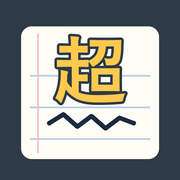
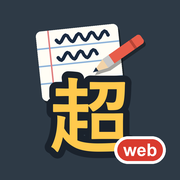
v7: Android 版 v20〜v23 に合わせる（自動空白、字の大きさ、送るのボタンと縦横の 1 行、web の札のアイコン）

diff --git a/js/ink.js b/js/ink.js
@@ -7,6 +7,19 @@ import { localPos } from './ui.js';
 import { layout, drawItem, glyph, space, newline, span, figScale, canvasPen, GLYPH, NEWLINE, FIGURE, inkWidth } from './note.js';
 
 export const COMMIT_DELAY_MS = 700;
+/** 自動空白（v7 から、Android 版 v20・v21 と同じ）: 指を離してこれだけ書かなければ空白を 1 つ入れる */
+export const AUTO_SPACE_MS = 2300;
+const LINEW = 'inkmemo.lineW'; // 縦の画面・横の画面の 1 行の長さ（行の単位）。送るときに使う
+
+/** 書く画面の 1 行の長さ（行の単位）。まだその向きで開いていなければ、画面の大きさから見積もる */
+export function lineUnits(land) {
+  try {
+    const v = JSON.parse(localStorage.getItem(LINEW) || '{}')[land ? 'land' : 'port'];
+    if (v > 0) return v;
+  } catch (e) { /* 見積もる */ }
+  const a = Math.min(screen.width, screen.height), b = Math.max(screen.width, screen.height);
+  return land ? (b - 28 - 64) / 40 : (a - 28) / 40;
+}
 
 export class InkView {
   constructor(canvas) {
@@ -16,7 +29,8 @@ export class InkView {
     this.lineH = 40; this.marginL = 18; this.marginR = 10; this.marginT = 12;
     this.note = null; this.cursor = 0; this.scrollY = 0;
     this.pending = []; this.cur = null;
-    this.lastTop = -1; this.lastH = -1;
+    this.recentH = []; this.lastBottom = 0;
+    this.autoSpace = false; this.spaceTimer = 0;
     this.undoStack = [];
     this.ptrs = new Map();
     this.scrolling = false; this.penSeen = false;
@@ -42,6 +56,38 @@ export class InkView {
     this.ctx.setTransform(dpr, 0, 0, dpr, 0, 0);
     this.ensureCursorVisible();
     this.draw();
+    // この向きの画面の 1 行の長さを覚える（「送る」で、縦の画面／横の画面の 1 行に合わせるときに使う）
+    try {
+      const o = JSON.parse(localStorage.getItem(LINEW) || '{}');
+      o[r.width < r.height ? 'port' : 'land'] = this.maxW();
+      localStorage.setItem(LINEW, JSON.stringify(o));
+    } catch (e) { /* 覚えられなくても見積もる */ }
+  }
+
+  setAutoSpace(on) {
+    this.autoSpace = on;
+    if (!on) clearTimeout(this.spaceTimer);
+  }
+
+  /** 書くのを止めて字が入ったとき（0.7 秒）。自動空白があれば、指を離してから 2.3 秒で空白を入れる用意をする */
+  commitByTimer() {
+    const had = this.pending.length > 0;
+    this.commitPending();
+    if (had && this.autoSpace) this.spaceTimer = setTimeout(() => this.autoSpaceNow(), AUTO_SPACE_MS - COMMIT_DELAY_MS);
+  }
+
+  /** 自動の空白を入れる（カーソルの前が手書きの字のときだけ。空白・改行・図のあとには入れない） */
+  autoSpaceNow() {
+    if (!this.note || this.pending.length || this.cur || this.cursor === 0) return;
+    if (this.note.items[this.cursor - 1].type !== GLYPH) return;
+    this.insert(space());
+  }
+
+  /** ふつうの字の高さ: 前の 5 字の高さの真ん中の値（まだなければ -1） */
+  typicalH() {
+    const a = this.recentH.slice().sort((x, y) => x - y), n = a.length;
+    if (!n) return -1;
+    return n % 2 ? a[n >> 1] : (a[n / 2 - 1] + a[n / 2]) / 2;
   }
 
   setNote(n) {
@@ -49,7 +95,8 @@ export class InkView {
     this.cursor = n.items.length;
     this.undoStack = [];
     this.pending = []; this.cur = null;
-    this.lastTop = this.lastH = -1;
+    this.recentH = []; this.lastBottom = 0;
+    clearTimeout(this.spaceTimer);
     this.scrollY = 0;
     this.ensureCursorVisible();
     this.invalidate();
@@ -61,7 +108,7 @@ export class InkView {
 
   // ---- ボタンから呼ぶ操作 ----
 
-  commitNow() { clearTimeout(this.timer); this.commitPending(); }
+  commitNow() { clearTimeout(this.timer); clearTimeout(this.spaceTimer); this.commitPending(); }
   insertSpace() { this.commitNow(); this.insert(space()); }
   insertNewline() { this.commitNow(); this.insert(newline()); }
   insertFigure(f) { this.commitNow(); this.insert(f); }
@@ -69,6 +116,7 @@ export class InkView {
   /** index の図を描き直したものと入れ替える（fig が null なら消す） */
   replaceFigure(index, fig) {
     if (!this.note || index < 0 || index >= this.note.items.length) return;
+    clearTimeout(this.spaceTimer);
     this.pushUndo();
     if (!fig) {
       this.note.items.splice(index, 1);
@@ -79,10 +127,11 @@ export class InkView {
 
   /** 書きかけがあればその最後の 1 画を、なければカーソルの前の 1 つを消す */
   backspace() {
+    clearTimeout(this.spaceTimer); // ボタンを押したら、自動の空白は入れない
     if (this.pending.length) {
       this.pending.pop();
       clearTimeout(this.timer);
-      if (this.pending.length) this.timer = setTimeout(() => this.commitPending(), COMMIT_DELAY_MS);
+      if (this.pending.length) this.timer = setTimeout(() => this.commitByTimer(), COMMIT_DELAY_MS);
       this.invalidate();
       return;
     }
@@ -95,6 +144,7 @@ export class InkView {
 
   /** 書きかけがあればそれを捨てる。なければ 1 つ前の状態に戻す */
   undo() {
+    clearTimeout(this.spaceTimer);
     if (this.pending.length) {
       this.pending = [];
       clearTimeout(this.timer);
@@ -143,16 +193,22 @@ export class InkView {
       by0 = Math.min(by0, s[k + 1]); by1 = Math.max(by1, s[k + 1]);
     }
     const bw = bx1 - bx0, bh = by1 - by0;
-    const ref = this.w * 0.3; // 前に字を入れていないときの「ふつうの字の高さ」
+    // 前に字を入れていないときの「ふつうの字の高さ」（v7 から、Android 版 v21 と同じ 1cm くらい。
+    // 前の画面の幅の 3 割だと、ふつうの大きさで書いた字まで小さな字とみなされ、行の 3 分の 1 くらいに縮んでいた）
+    const ref = 64;
+    // ふつうの字の高さは、前の 5 字の真ん中の値（前の 1 字だけだと、1 字だけ大きく書いたあとの字が全部小さくなった）
+    const typical = this.typicalH();
     let refH, top;
-    if (this.lastH > 0 && bh < this.lastH * 0.6) {
-      // 小さな字（「、」「。」「ー」など）: 前の字と同じ大きさの枠の中の位置に置く
-      refH = this.lastH; top = this.lastTop;
-    } else if (this.lastH < 0 && bh < ref * 0.5) {
+    if (typical > 0 && bh < typical * 0.45) {
+      // 小さな字（「、」「。」「ー」など）: ふつうの字の大きさの枠の中に、前の字の下の端にそろえて置く
+      refH = typical; top = this.lastBottom - typical;
+    } else if (typical < 0 && bh < ref * 0.45) {
       refH = ref; top = (by0 + by1) / 2 - ref / 2;
     } else {
       refH = Math.max(bh, 1); top = by0;
-      this.lastH = refH; this.lastTop = top;
+      this.recentH.push(refH);
+      if (this.recentH.length > 5) this.recentH.shift();
+      this.lastBottom = by1;
     }
     const pad = 0.06, s = 0.8 / refH;
     let minY = Infinity, maxY = -Infinity;
@@ -265,6 +321,7 @@ export class InkView {
     try { this.cv.setPointerCapture(e.pointerId); } catch (x) { /* なくてよい */ }
     const p = this.pos(e);
     clearTimeout(this.timer);
+    clearTimeout(this.spaceTimer); // 続けて書き始めたら空白は入れない
     if (e.pointerType === 'pen') {
       // Apple Pencil: いつも書く（手のひらが画面に触れていても）
       this.penSeen = true;
@@ -330,7 +387,7 @@ export class InkView {
           else this.tapCursor(p[0], p[1]);
         } else {
           this.pending.push(this.cur);
-          this.timer = setTimeout(() => this.commitPending(), COMMIT_DELAY_MS);
+          this.timer = setTimeout(() => this.commitByTimer(), COMMIT_DELAY_MS);
         }
         this.cur = null;
       }
@@ -342,7 +399,7 @@ export class InkView {
     if (this.scrolling) {
       if (this.ptrs.size) { this.lastScrollY = this.avgY(); return; }
       this.scrolling = false;
-      if (this.pending.length && !this.cur) this.timer = setTimeout(() => this.commitPending(), COMMIT_DELAY_MS);
+      if (this.pending.length && !this.cur) this.timer = setTimeout(() => this.commitByTimer(), COMMIT_DELAY_MS);
     }
     this.invalidate();
   }
@@ -351,7 +408,7 @@ export class InkView {
     this.ptrs.delete(e.pointerId);
     if (e.pointerId === this.drawId) { this.drawId = null; this.cur = null; }
     if (!this.ptrs.size) this.scrolling = false;
-    if (this.pending.length) this.timer = setTimeout(() => this.commitPending(), COMMIT_DELAY_MS);
+    if (this.pending.length) this.timer = setTimeout(() => this.commitByTimer(), COMMIT_DELAY_MS);
     this.invalidate();
   }
 

diff --git a/js/app.js b/js/app.js
@@ -3,11 +3,11 @@ import * as N from './note.js';
 import * as S from './store.js';
 import * as C from './cloud.js';
 import { notesPdf } from './pdf.js';
-import { InkView } from './ink.js';
+import { InkView, lineUnits } from './ink.js';
 import { openDraw } from './draw.js';
 import { el, btn, toast, dialog, confirmDlg, TINT_FIG, TINT_DEL, TINT_OK, applyRotation, rotation, viewSize } from './ui.js';
 
-export const VERSION = 'v6';
+export const VERSION = 'v7';
 const $ = id => document.getElementById(id);
 const screens = ['list', 'edit', 'draw', 'set'];
 function show(name) {
@@ -156,6 +156,15 @@ function buildEdit() {
   E.left = btn('◀', () => ink.moveCursor(-1));
   E.right = btn('▶', () => ink.moveCursor(1));
   E.space = btn('空白', () => ink.insertSpace());
+  // 自動空白（v7 から）: あり にすると、字を書いて 2.3 秒なにも書かなければ空白を 1 つ入れる（押すたびに あり ⇔ なし）
+  E.auto = btn('', () => {
+    const on = !S.settings().autoSpace;
+    S.setSettings({ autoSpace: on });
+    showAuto();
+    toast(on ? '字を書いて 2.3 秒たつと、自動で空白を入れます' : '自動の空白をやめました');
+  });
+  E.auto.classList.add('auto');
+  showAuto();
   E.nl = btn('改行', () => ink.insertNewline(), TINT_OK);
   E.del = btn('消す', () => ink.backspace(), TINT_DEL);
   E.undo = btn('戻す', () => ink.undo());
@@ -188,12 +197,20 @@ function arrange() {
   const side = $('edit-side'), r1 = $('edit-row1'), r2 = $('edit-row2');
   side.innerHTML = r1.innerHTML = r2.innerHTML = '';
   if (land) {
-    side.append(E.undo, E.del, E.space, E.nl);
+    side.append(E.undo, E.del, E.space, E.auto, E.nl);
     r1.append(E.list, E.send, E.fig, E.rot, E.left, E.right);
   } else {
     r1.append(E.list, E.fig, E.send, E.rot);
-    r2.append(E.left, E.right, E.space, E.nl, E.del, E.undo);
+    r2.append(E.left, E.right, E.space, E.auto, E.nl, E.del, E.undo);
   }
+}
+
+/** 自動空白のボタンの字と色（あり は黄色） */
+function showAuto() {
+  const on = S.settings().autoSpace;
+  E.auto.textContent = '自動\n空白\n' + (on ? 'あり' : 'なし');
+  E.auto.classList.toggle('yes', on);
+  if (ink) ink.setAutoSpace(on);
 }
 
 async function openEdit(id) {
@@ -299,20 +316,38 @@ async function drawFigure(idx, fig) {
 
 async function shareNote(n) {
   if (!n || !n.items.length) { toast('まだ何も書いていません'); return; }
-  const v = await dialog({
-    title: 'このメモを送る・保存する',
-    items: [{ text: 'PDF で送る（拡大してもきれい・印刷向き）', value: 'pdf' },
-            { text: '画像で送る（LINE などですぐ見える）', value: 'png' }],
-  });
+  // v7 から: 文字の一覧ではなく、うすい色の角の丸い横長のボタン（Android 版 v22 と同じ）。
+  // 画像・PDF の組ごとに、縦の画面 / 横の画面の 1 行に合わせる 2 つ
+  const body = el('div', 'sendlist');
+  let pick;
+  const chosen = new Promise(ok => { pick = ok; });
+  const kinds = [['縦の画面の 1 行に合わせる', '字が大きめ'], ['横の画面の 1 行に合わせる', '1 枚にたくさん入る']];
+  const group = (title, kind, cls) => {
+    body.appendChild(el('div', 'sendhead', title));
+    kinds.forEach(([a, b], k) => {
+      const x = el('button', 'sendbtn ' + cls);
+      x.type = 'button';
+      x.append(el('span', 'main', a), el('span', 'sub', b));
+      x.addEventListener('click', () => pick({ kind, land: k === 1 }));
+      body.appendChild(x);
+    });
+  };
+  group('画像で送る（LINE などですぐ見える）', 'png', 'green');
+  group('PDF で送る（印刷向き・拡大できれい）', 'pdf', 'blue');
+  body.appendChild(el('div', 'sendnote', '「ファイルに保存」も、次の画面（送る・保存する）から選べます'));
+  const dlgP = dialog({ title: 'このメモを送る・保存する', body });
+  const v = await Promise.race([chosen, dlgP]);
+  document.querySelectorAll('.dlg-back').forEach(b => b.remove());
   if (!v) return;
-  toast(v === 'pdf' ? 'PDF を作っています…' : '画像を作っています…');
+  const units = lineUnits(v.land);
+  toast(v.kind === 'pdf' ? 'PDF を作っています…' : '画像を作っています…');
   try {
     // 名前: 前にクラウドに保存したときに読んだ冒頭の文字があれば使う（ここでは読みに行かない）
     const head = await C.headFor(n, false);
     let blob;
-    if (v === 'pdf') blob = new Blob([await notesPdf([n])], { type: 'application/pdf' });
-    else blob = await new Promise(ok => renderImage(n).toBlob(ok, 'image/png'));
-    const file = new File([blob], N.fileName(n, head, v === 'pdf' ? '.pdf' : '.png'), { type: blob.type });
+    if (v.kind === 'pdf') blob = new Blob([await notesPdf([n], units)], { type: 'application/pdf' });
+    else blob = await new Promise(ok => renderImage(n, units).toBlob(ok, 'image/png'));
+    const file = new File([blob], N.fileName(n, head, v.kind === 'pdf' ? '.pdf' : '.png'), { type: blob.type });
     await sendFile(file);
   } catch (e) {
     toast('作れませんでした: ' + e.message, true);
@@ -341,9 +376,13 @@ export async function sendFile(file) {
   setTimeout(() => { URL.revokeObjectURL(a.href); a.remove(); }, 4000);
 }
 
-/** メモを画像にする。幅 1200 ピクセル、罫線のノートで、高さは書いた行の数に合わせる */
-function renderImage(n) {
-  const W = 1200, M = 48, HEAD = 56, lineH = 64;
+/**
+ * メモを画像にする。幅 1200 ピクセル、罫線のノートで、高さは書いた行の数に合わせる。
+ * units: 1 行の長さ（行の単位。書く画面の 1 行と同じにすると、行の切れ目が画面と同じ）。0 ならいつもの大きさ（v7 から）
+ */
+function renderImage(n, units = 0) {
+  const W = 1200, M = 48, HEAD = 56;
+  const lineH = units > 0 ? Math.max(30, Math.min(200, (W - M * 2) / units)) : 64;
   const maxW = (W - M * 2) / lineH;
   const { lineOf, xOf, lines: l0 } = N.layout(n.items, maxW);
   const lines = Math.max(3, l0);
@@ -358,7 +397,7 @@ function renderImage(n) {
   c.stroke();
   c.fillStyle = '#808080';
   c.font = '24px -apple-system, "Hiragino Sans", sans-serif';
-  c.fillText('手書きメモ　' + N.fmtDate(n.updated), M, M + 24);
+  c.fillText('手書きメモ　' + N.fmtDate(n.updated || Date.now()), M, M + 24); // まだ保存していないメモは今の時刻
   const pen = N.canvasPen(c);
   n.items.forEach((it, i) => {
     if (it.type === N.GLYPH || it.type === N.FIGURE)

diff --git a/js/pdf.js b/js/pdf.js
@@ -1,9 +1,10 @@
 // メモを PDF にする（Android 版の PdfExport と同じ並べ方）。
 // 字と図は線（ベクター）のまま入れるので、拡大してもきれいで、ファイルも小さい。用紙は A4 縦。
+// v7 から「送る」では、1 行の長さを、書く画面（縦向き / 横向き）の 1 行と同じにできる（行の切れ目が画面と同じになる）。
 // 上の日時の文字は、日本語の字の形を PDF に入れなくて済むように、小さな画像（JPEG）にして入れる。
 import { layout, drawItem, span, GLYPH, FIGURE, fmtDate } from './note.js';
 
-const PAGE_W = 595, PAGE_H = 842, MARGIN = 40, HEAD = 34, LINE_H = 30;
+const PAGE_W = 595, PAGE_H = 842, MARGIN = 40, HEAD = 34, LINE_H0 = 30;
 const enc = new TextEncoder();
 const num = v => {
   const s = (Math.round(v * 100) / 100).toFixed(2);
@@ -62,8 +63,13 @@ async function deflate(bytes) {
   return new Uint8Array(await out);
 }
 
-/** 全部のメモを 1 つの PDF に。メモごとに新しいページから始める。Uint8Array を返す */
-export async function notesPdf(notes) {
+/**
+ * 全部のメモを 1 つの PDF に。メモごとに新しいページから始める。Uint8Array を返す。
+ * lineUnits: 1 行の長さ（行の単位。書く画面の 1 行と同じ値を渡すと、行の切れ目が画面と同じになる）。0 ならいつもの大きさ
+ */
+export async function notesPdf(notes, lineUnits = 0) {
+  const LINE_H = Math.max(14, Math.min(80, lineUnits > 0 ? (PAGE_W - MARGIN * 2) / lineUnits : LINE_H0));
+  const top0 = MARGIN + HEAD - LINE_H0; // 1 行目の上（行が高くても、上の日時の字に重ならない）
   const objs = []; // [{dict, stream?}]
   const add = o => { objs.push(o); return objs.length + 2; }; // 1 = Catalog、2 = Pages
   const pageIds = [];
@@ -73,10 +79,10 @@ export async function notesPdf(notes) {
     const n = notes[k];
     const label = notes.length > 1 ? `メモ ${k + 1} / ${notes.length}　　` : '';
     const maxW = (PAGE_W - MARGIN * 2) / LINE_H;
-    const perPage = Math.floor((PAGE_H - MARGIN - HEAD - MARGIN) / LINE_H);
+    const perPage = Math.floor((PAGE_H - top0 - MARGIN - HEAD) / LINE_H);
     const { lineOf, xOf, lines } = layout(n.items, maxW, perPage);
     const pages = Math.max(1, Math.ceil(lines / perPage));
-    const head = `${label}作成 ${fmtDate(n.created)}　　更新 ${fmtDate(n.updated)}`;
+    const head = `${label}作成 ${fmtDate(n.created)}　　更新 ${fmtDate(n.updated || Date.now())}`;
 
     for (let p = 0; p < pages; p++) {
       const ops = [];
@@ -88,7 +94,6 @@ export async function notesPdf(notes) {
       const imId = add({ dict: `<< /Type /XObject /Subtype /Image /Width ${img.w} /Height ${img.h} /ColorSpace /DeviceRGB /BitsPerComponent 8 /Filter /DCTDecode /Length ${img.bytes.length} >>`, stream: img.bytes });
       ops.push(`q ${num(tw)} 0 0 ${th} ${MARGIN} ${num(PAGE_H - (MARGIN - 4))} cm /Im0 Do Q`);
       // 罫線
-      const top0 = MARGIN + HEAD - LINE_H;
       ops.push('1 J 1 j 0.725 0.812 0.902 RG 0.6 w');
       for (let l = 0; l < perPage; l++) {
         const y = num(PAGE_H - (top0 + (l + 1) * LINE_H));

diff --git a/index.html b/index.html
@@ -82,6 +82,22 @@ button { font: inherit; touch-action: manipulation; }
 #scr-edit.land #edit-side { display: flex; }
 #scr-edit.land #edit-row1 { height: 46px; }
 #scr-edit.land .btn { font-size: 15px; }
+/* 自動空白のボタン（3 行の字。あり は黄色） */
+#scr-edit .btn.auto { white-space: pre-line; font-size: 12px !important; line-height: 1.05; font-weight: bold; }
+#scr-edit .btn.auto.yes { background: #FFE08A; color: #5A4300; }
+#scr-edit.land #edit-side .btn.auto { flex: 1.15; }
+
+/* 送る（うすい色の、角の丸い横長のボタン） */
+.sendhead { font-size: 15px; font-weight: bold; color: #333; padding: 12px 2px 4px; }
+.sendbtn {
+  display: flex; flex-direction: column; align-items: center; width: 100%; margin: 4px 0; padding: 8px 12px;
+  border-radius: 12px; font-size: 16px; line-height: 1.3; cursor: pointer;
+}
+.sendbtn .sub { font-size: 13px; opacity: 0.75; }
+.sendbtn:active { filter: brightness(0.92); }
+.sendbtn.green { background: #DDF2E3; color: #1E4D33; border: 1px solid #BCCEC1; }
+.sendbtn.blue { background: #DCEAF7; color: #1C3D63; border: 1px solid #BBC7D2; }
+.sendnote { font-size: 13px; color: #666; padding: 10px 2px 4px; }
 
 /* 図を描く */
 .draw .bar { height: 52px; }

diff --git a/sw.js b/sw.js
@@ -1,7 +1,7 @@
 // 電波がないときでも開けるように、ページのファイルを覚えておく。
 // 電波があるときは、いつもサーバーから新しいものを読む（直した版がすぐに届くように）。
-const CACHE = 'inkmemo-v6';
-const FILES = ['./', 'index.html', 'manifest.webmanifest', 'icon-180.png', 'icon-192.png', 'icon-512.png',
+const CACHE = 'inkmemo-v7';
+const FILES = ['./', 'index.html', 'manifest.webmanifest', 'icon-180.png', 'icon-192.png', 'icon-512.png', 'icon-maskable-192.png', 'icon-maskable-512.png',
   'js/app.js', 'js/note.js', 'js/store.js', 'js/cloud.js', 'js/pdf.js', 'js/ink.js', 'js/draw.js', 'js/ui.js'];
 
 self.addEventListener('install', e => {

diff --git a/js/store.js b/js/store.js
@@ -61,7 +61,7 @@ export function askPersist() {
 // ---- 設定 ----
 
 const PREF = 'inkmemo.settings';
-const DEF = { url: '', key: '', auto: true, pull: true, small: false, rot: false, rotOther: false };
+const DEF = { url: '', key: '', auto: true, pull: true, small: false, rot: false, rotOther: false, autoSpace: false };
 
 export function settings() {
   try { return Object.assign({}, DEF, JSON.parse(localStorage.getItem(PREF) || '{}')); }
